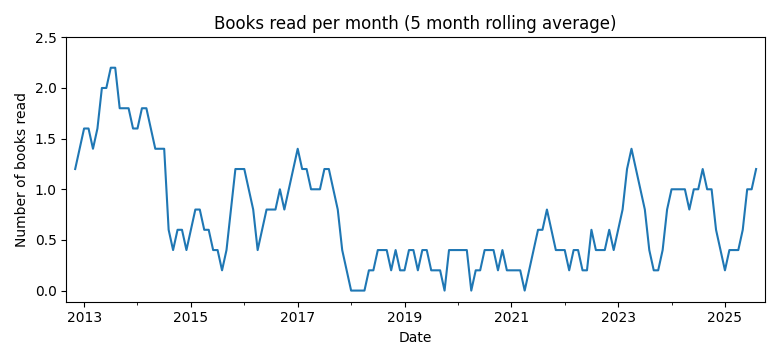
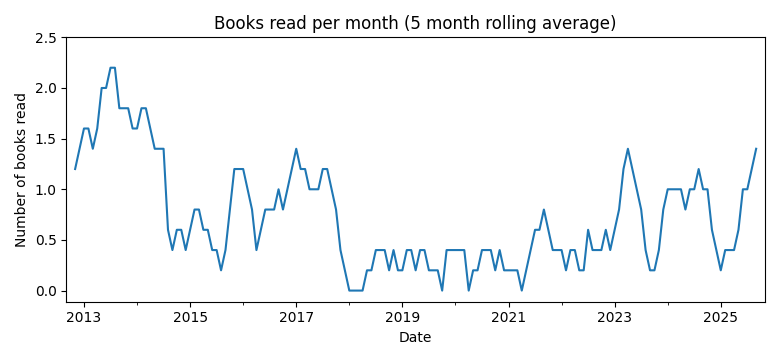
breath

diff --git a/README.md b/README.md
@@ -3,13 +3,16 @@
 I started this log on October 30th, 2012. I list all books I read.  
 
 ### Statistics
-Total number of books read: 117  
-Books per month: 0.74 (2012/9 to 2025/10)
+Total number of books read: 118  
+Books per month: 0.74 (2012/9 to 2025/11)
 
 ![Books recorded by year](book_recorded.png)
 ![Books read per month](book_read.png)
 
 ### List of books
+*Breath*, James Nestor  
+Finished: 2025.11.17
+
 *Horus rising*, Dan Abnett  
 Finished: 2025.10.30
 
